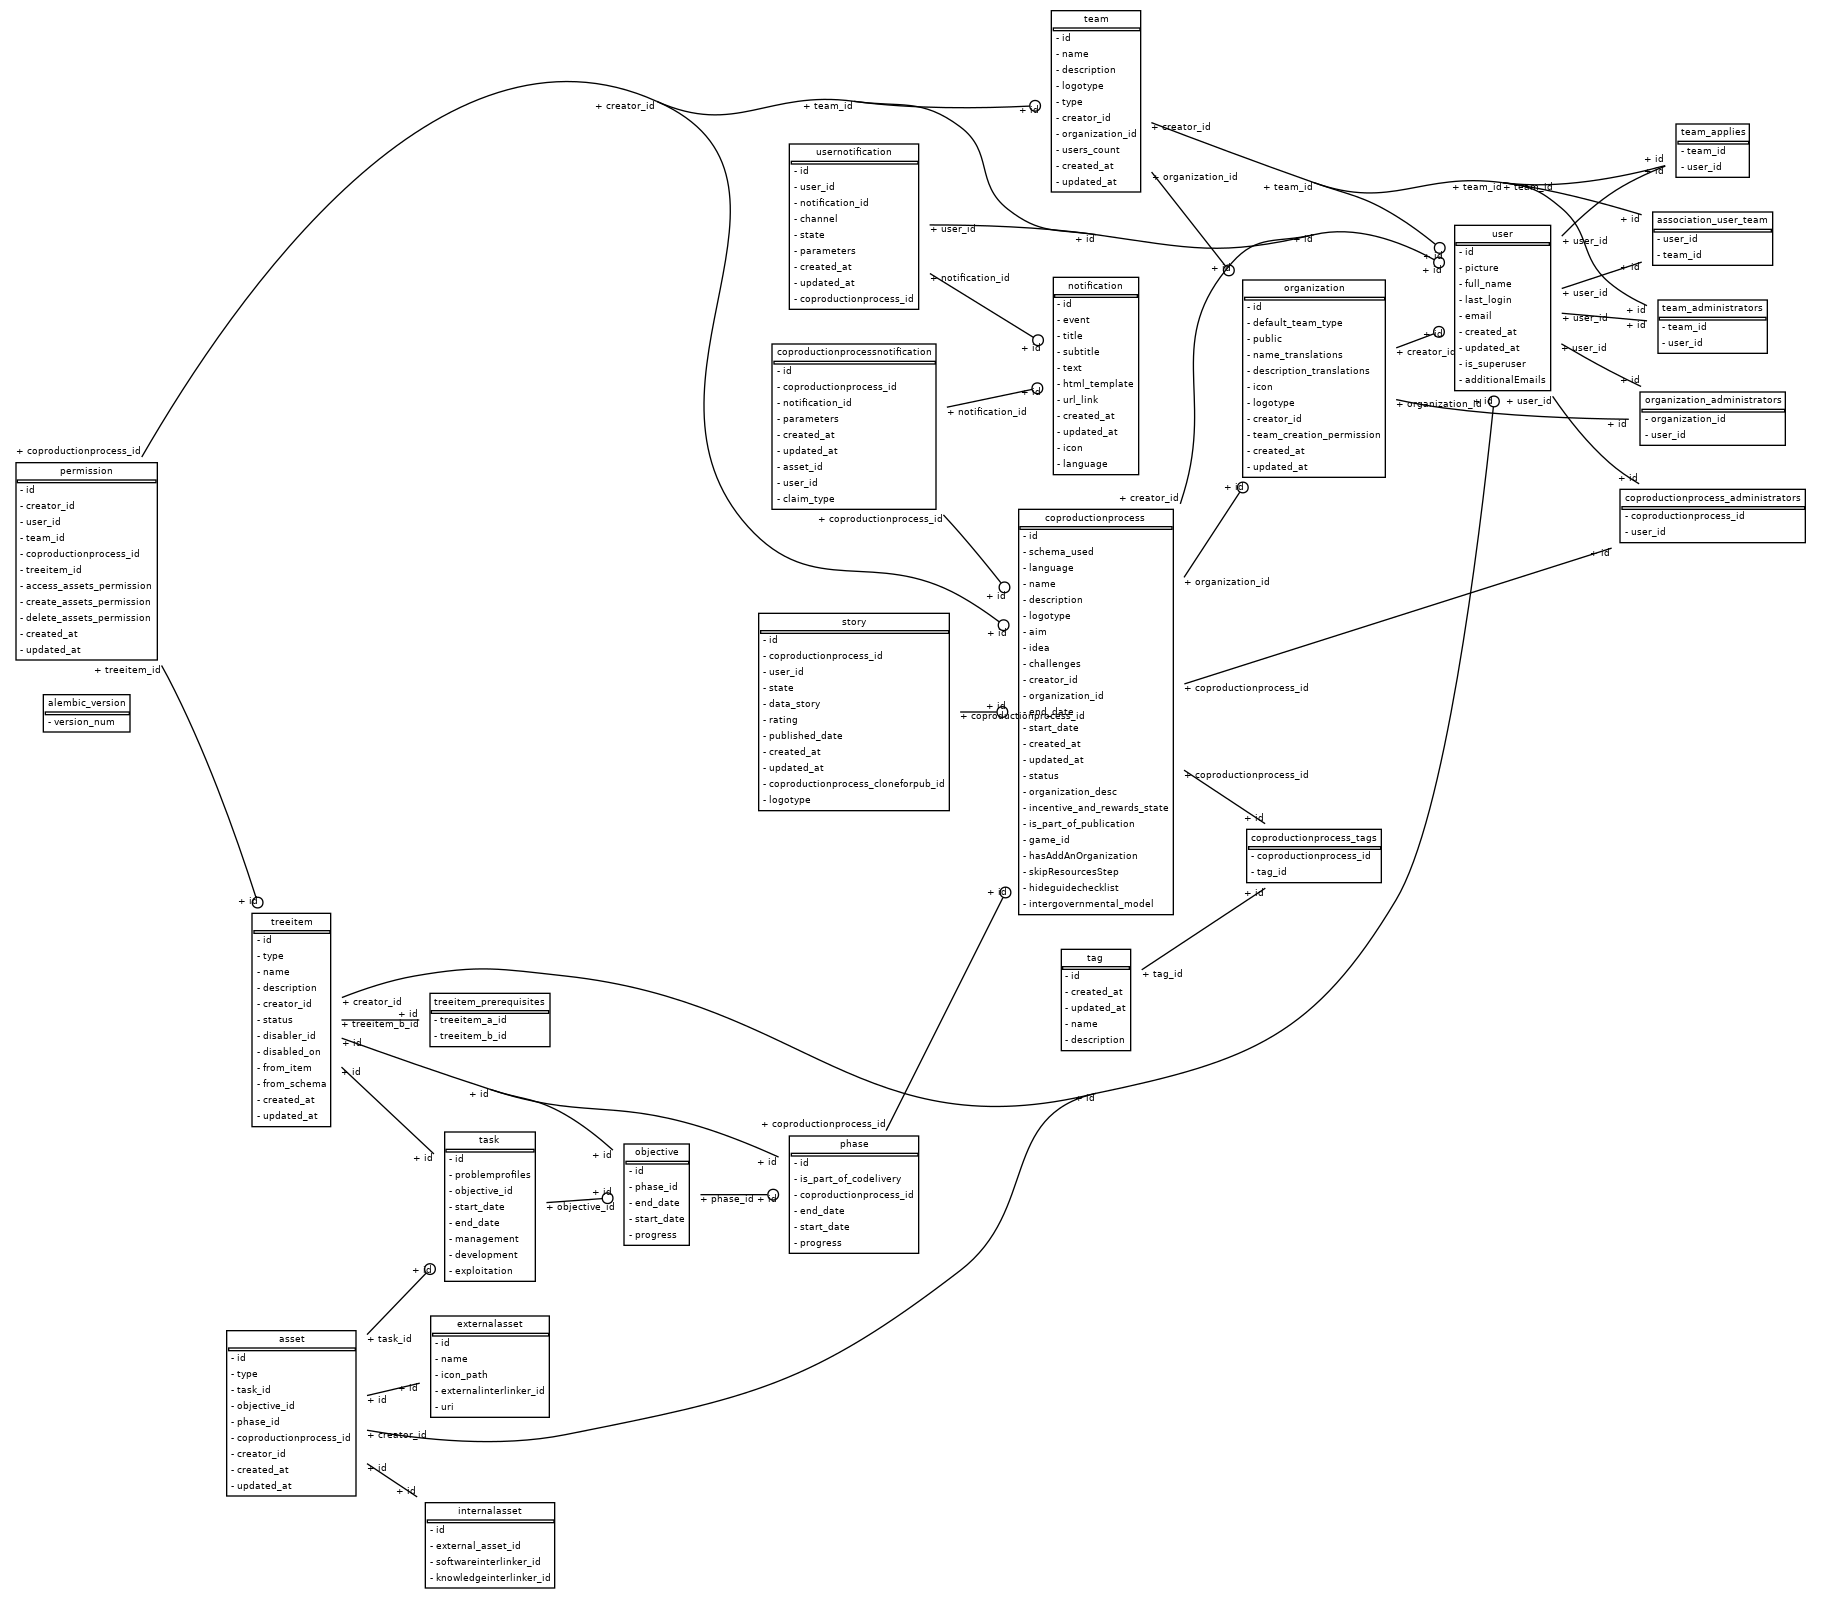
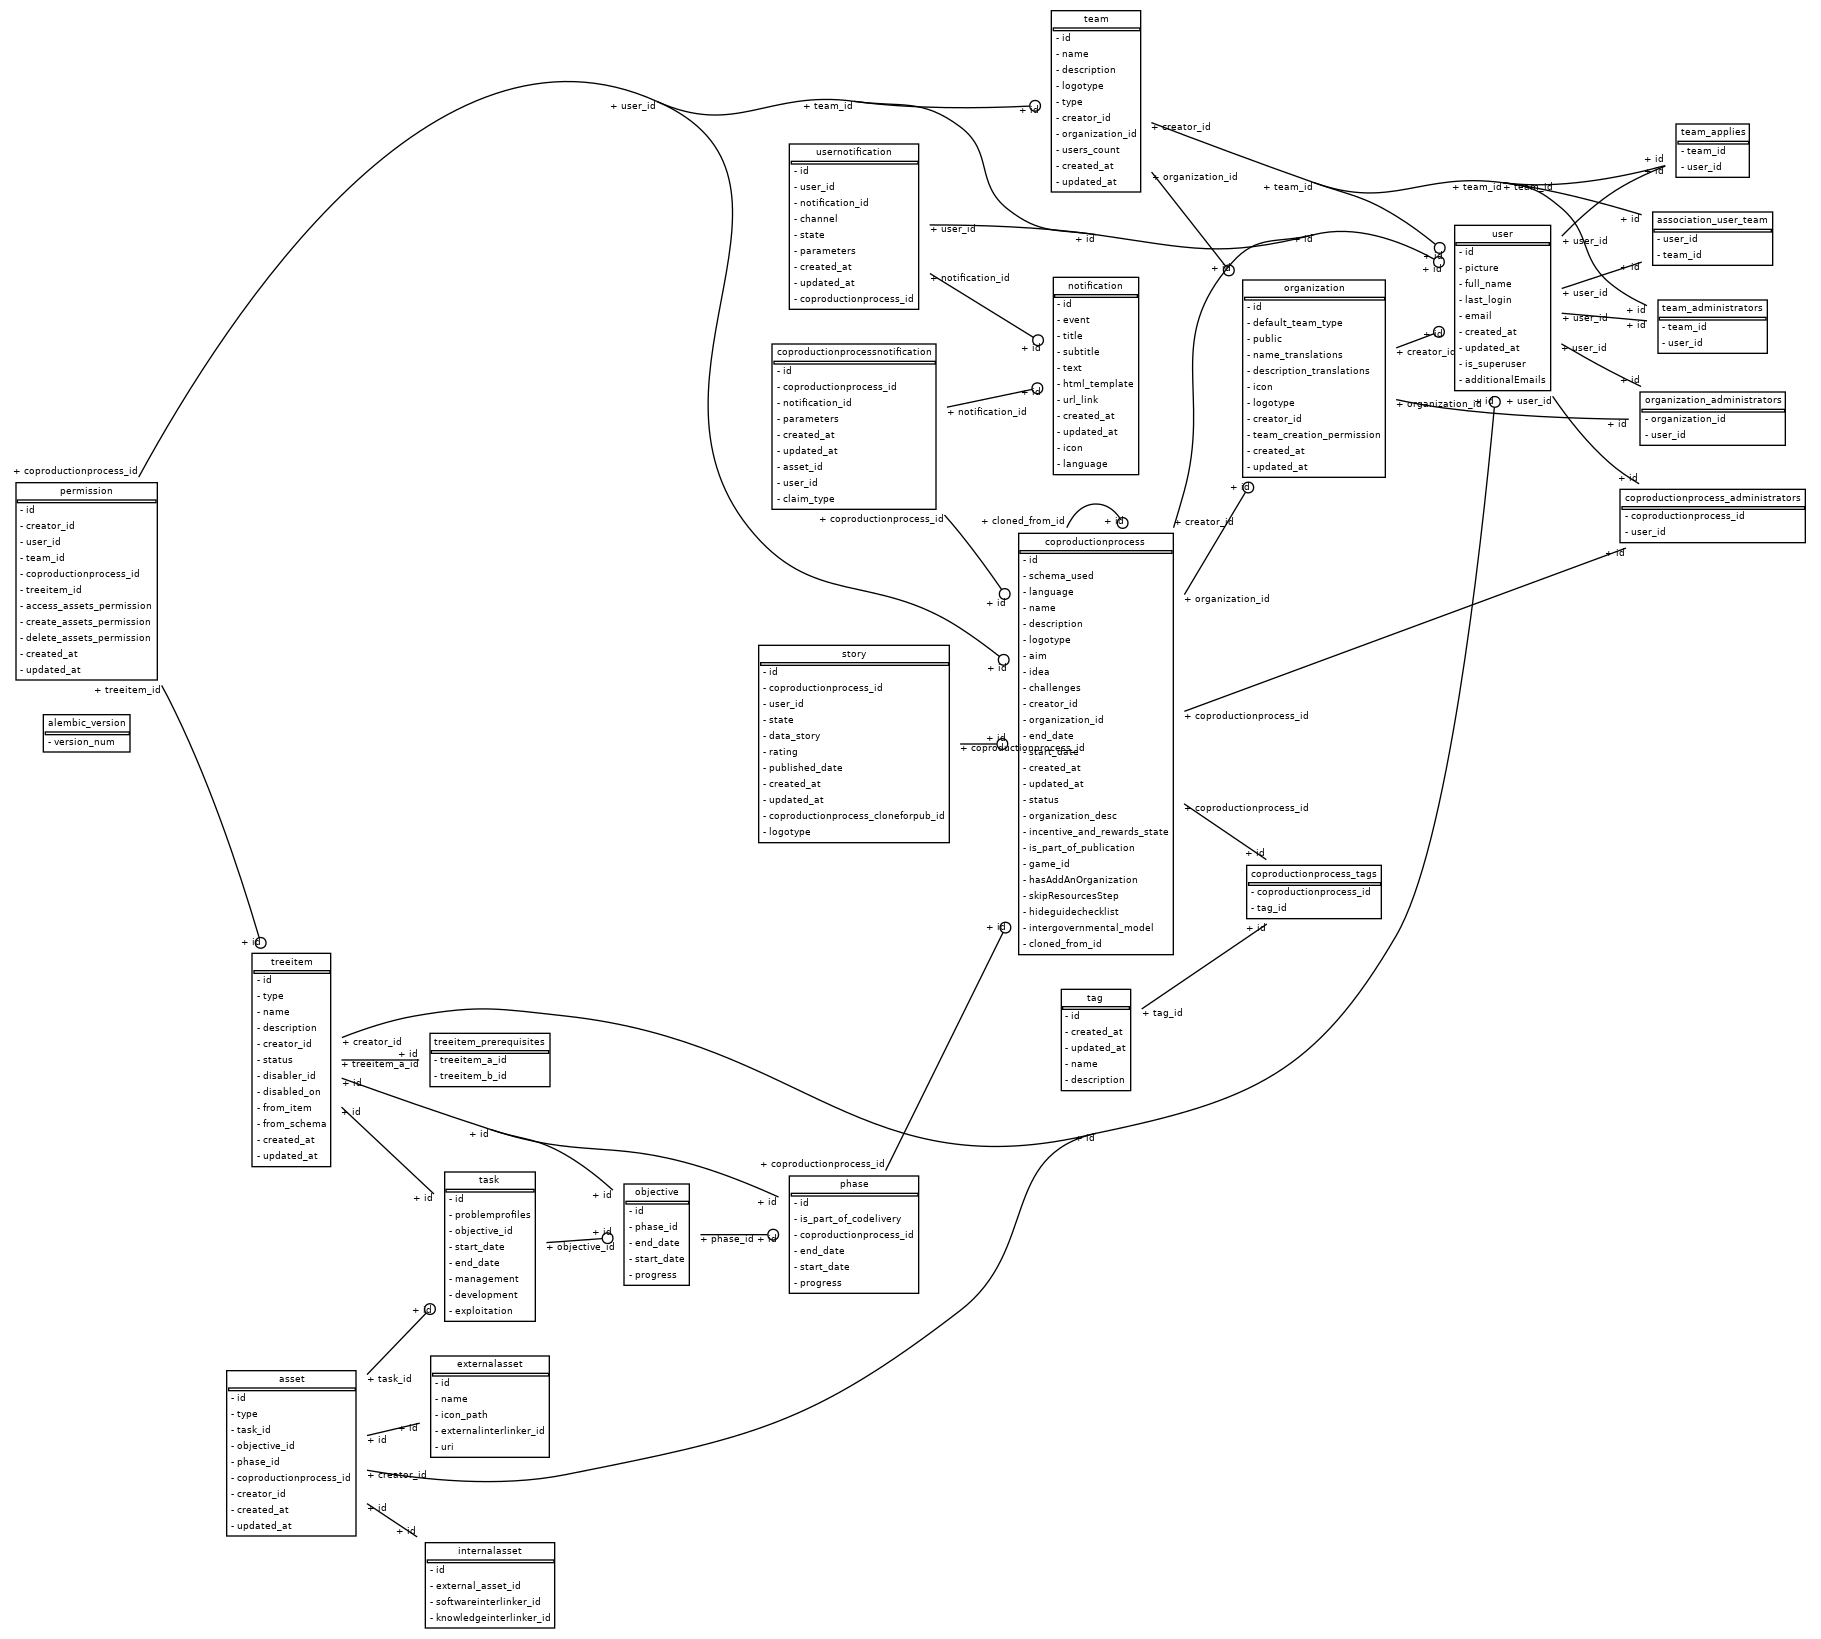
Add cloned_from field

diff --git a/coproduction/alembic/versions/1528ab0bd4c8_cloned_tag_coprod.py b/coproduction/alembic/versions/1528ab0bd4c8_cloned_tag_coprod.py
@@ -1,0 +1,30 @@
+"""cloned_tag_coprod
+
+Revision ID: 1528ab0bd4c8
+Revises: 208738f13dce
+Create Date: 2023-05-19 12:20:22.111430
+
+"""
+from alembic import op
+import sqlalchemy as sa
+from sqlalchemy.dialects import postgresql
+
+# revision identifiers, used by Alembic.
+revision = '1528ab0bd4c8'
+down_revision = '208738f13dce'
+branch_labels = None
+depends_on = None
+
+
+def upgrade():
+    # ### commands auto generated by Alembic - please adjust! ###
+    op.add_column('coproductionprocess', sa.Column('cloned_from_id', postgresql.UUID(as_uuid=True), nullable=True))
+    op.create_foreign_key('fk_copro_id_cloned_from', 'coproductionprocess', 'coproductionprocess', ['cloned_from_id'], ['id'], ondelete='CASCADE')
+    # ### end Alembic commands ###
+
+
+def downgrade():
+    # ### commands auto generated by Alembic - please adjust! ###
+    op.drop_constraint('fk_copro_id_cloned_from', 'coproductionprocess', type_='foreignkey')
+    op.drop_column('coproductionprocess', 'cloned_from_id')
+    # ### end Alembic commands ###

diff --git a/coproduction/app/coproductionprocesses/models.py b/coproduction/app/coproductionprocesses/models.py
@@ -13,7 +13,7 @@ from sqlalchemy import (
 )
 from sqlalchemy_utils import aggregated
 from sqlalchemy.dialects.postgresql import UUID
-from sqlalchemy.orm import relationship
+from sqlalchemy.orm import relationship, backref
 from app.general.db.base_class import Base as BaseModel
 from app.config import settings
 from app.phases.models import Phase
@@ -97,7 +97,10 @@ class CoproductionProcess(BaseModel):
     
     
     stories = association_proxy("coproductionprocess_story_associations", "story")
-
+    
+    cloned_from_id = Column(UUID(as_uuid=True), ForeignKey('coproductionprocess.id', ondelete='CASCADE', name='fk_copro_id_cloned_from'), nullable=True)
+    cloned_to = relationship("CoproductionProcess", backref=backref("cloned_from", remote_side=[id]))
+    
     @aggregated('children', Column(Date))
     def end_date(self):
         return func.max(Phase.end_date)

diff --git a/coproduction/app/coproductionprocesses/crud.py b/coproduction/app/coproductionprocesses/crud.py
@@ -309,6 +309,7 @@ class CRUDCoproductionProcess(CRUDBase[CoproductionProcess, CoproductionProcessC
             organization_desc=coproductionprocess.organization,
             challenges=coproductionprocess.challenges,
             status=coproductionprocess.status,
+            cloned_from_id=coproductionprocess.id,
         )
 
         db_obj = await self.create(db=db, obj_in=new_coproductionprocess, creator=user, set_creator_admin=True)

diff --git a/coproduction/app/coproductionprocesses/schemas.py b/coproduction/app/coproductionprocesses/schemas.py
@@ -30,6 +30,7 @@ class CoproductionProcessBase(BaseModel):
 
     intergovernmental_model: Optional[str]
 
+    cloned_from_id: Optional[uuid.UUID]
     is_part_of_publication: Optional[bool]
     game_id: Optional[str]
 
